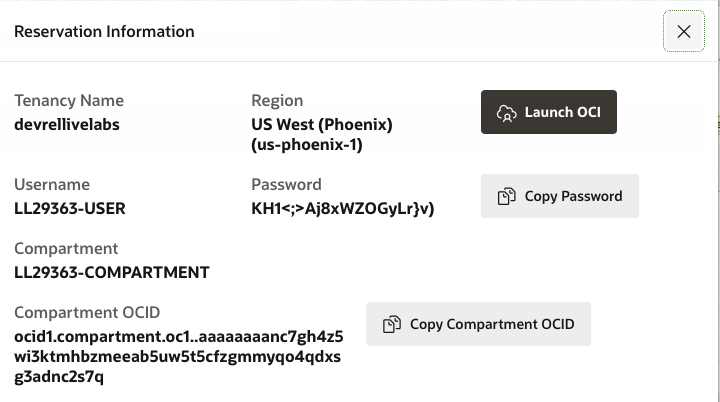
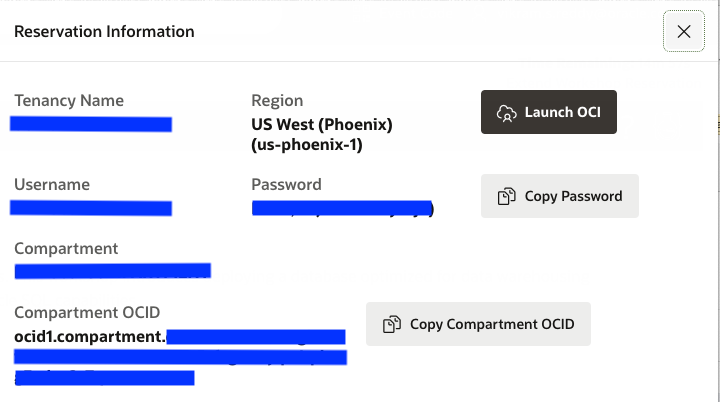
WMS ID: 9501 Updating "Kubernetes Monitoring and Troubleshooting" (#65)
* OKE Monitoring via LA Live Lab

OKE Monitoring via LA Live Lab

* Refactoring and image name changes

Refactoring and image name changes

* Add Details related to service accounts, cluster role and cluster role binding.

* Updating the Learn More Place Holders

Updating the Learn More Place Holders

* Delete howtouse-deletewhenfinished.md

* Incorporated the review comments

Incorporated the review comments and removed few details.

* Review Comments

1. Updated the manifest.json for ocw and copied the data in the other workshop
2. created the 3 different workshops for ocw
3.Updated the ingestion.md
4. Grammar Checks in ingestion.md and introuction.md

* Removing Lab 2 as per the review comment

Removing Lab 2 as per the review comment

* Masking the details and ips

Masking the details and ips

* Update get-fluentd-pods.png

* Removing the login steps as per the review comments

Removing the login steps as per the review comments

diff --git a/logging-analytics/oke-monitoring-la/ingestion-flow-setup/ingestion.md b/logging-analytics/oke-monitoring-la/ingestion-flow-setup/ingestion.md
@@ -42,29 +42,15 @@ In this lab, you will:
   - ociLALogGroupID.
 
 ## Task 2: Launching Cloud Shell
-1. Click on the Launch OCI button  
-  ![Image alt text](images/launch-oci.png)  
-
-2. A Single Sign On Page will be displayed.
-  ![Image alt text](images/sso-page.png)
-
-
-3. Key In the password copied in the step 2 and click on Sign In button.
-
-
-4. Change Password Page will be displayed. Fill in the required details and click on Save New Password.
-  ![Image alt text](images/change-password.png)
-
-
-5. Oracle Cloud Home Page will be displayed.   
-
-6. Click the **Cloud Shell**  ![Image alt text](images/cloud-shell-button.png)  button. 
+  
+1. On Oracle Cloud Home Page click the **Cloud Shell**  ![Image alt text](images/cloud-shell-button.png)  button. 
 
   ![Image alt text](images/cloud-shell.png)
 
-7. A Cloud Shell Instance will be created and text area will be displayed as below. 
-
+2. A Cloud Shell Instance will be created and text area will be displayed as below. 
   ![Image alt text](images/cloud-shell-textarea.png)
+
+ 
 
 ## Task 3: Setting Up Kube Config In Cloud Shell
 
@@ -105,9 +91,9 @@ New config written to the Kubeconfig file /home/livelab/.kube/config
      ```
        $ kubectl get nodes
        NAME          STATUS   ROLES   AGE   VERSION
-       10.0.10.116   Ready    node    91d   v1.21.5
-       10.0.10.136   Ready    node    77d   v1.21.5
-       10.0.10.146   Ready    node    77d   v1.21.5
+       10.0.10.xxx   Ready    node    91d   v1.21.5
+       10.0.10.xxx   Ready    node    77d   v1.21.5
+       10.0.10.xxx   Ready    node    77d   v1.21.5
      ```
   > **Note:** Node ip's will differ for every cluster.
 
